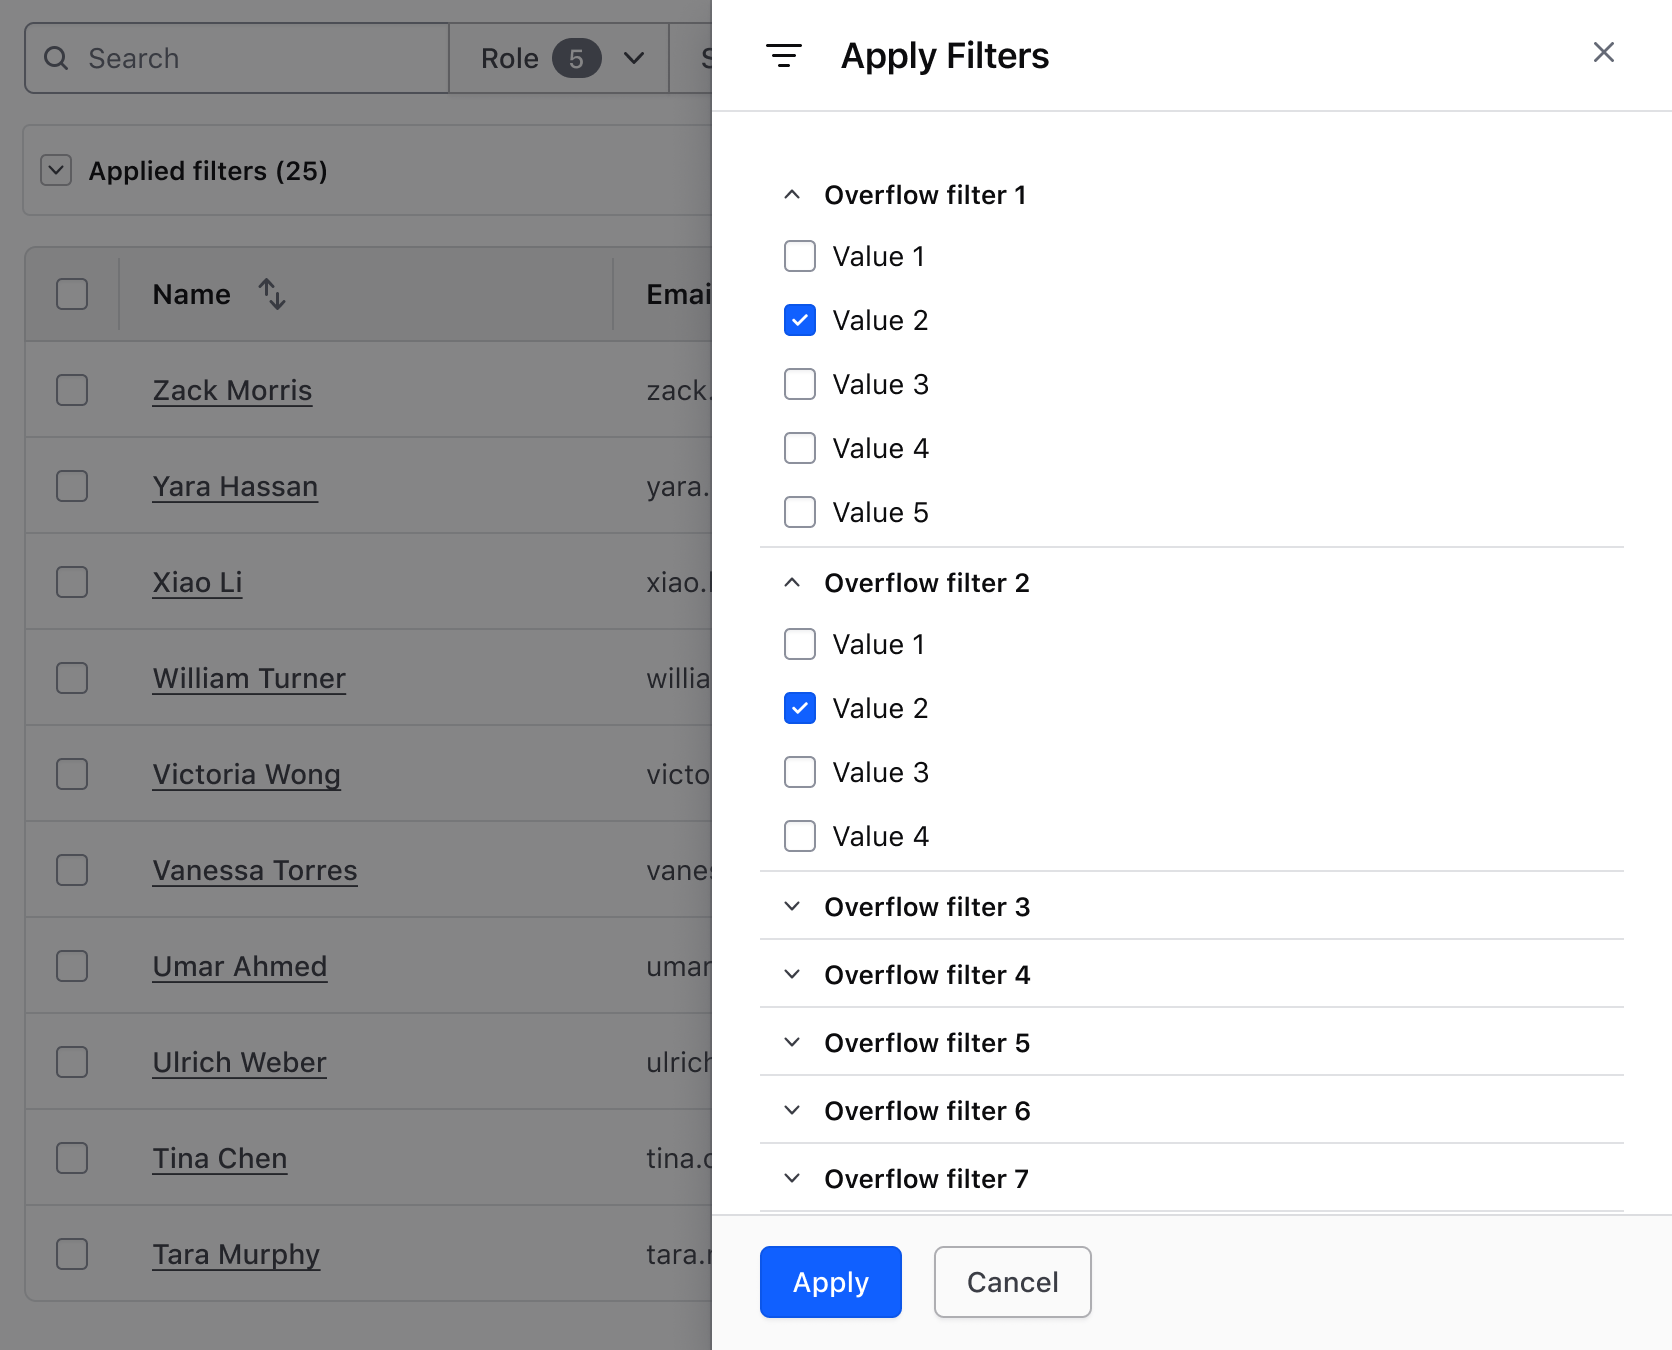
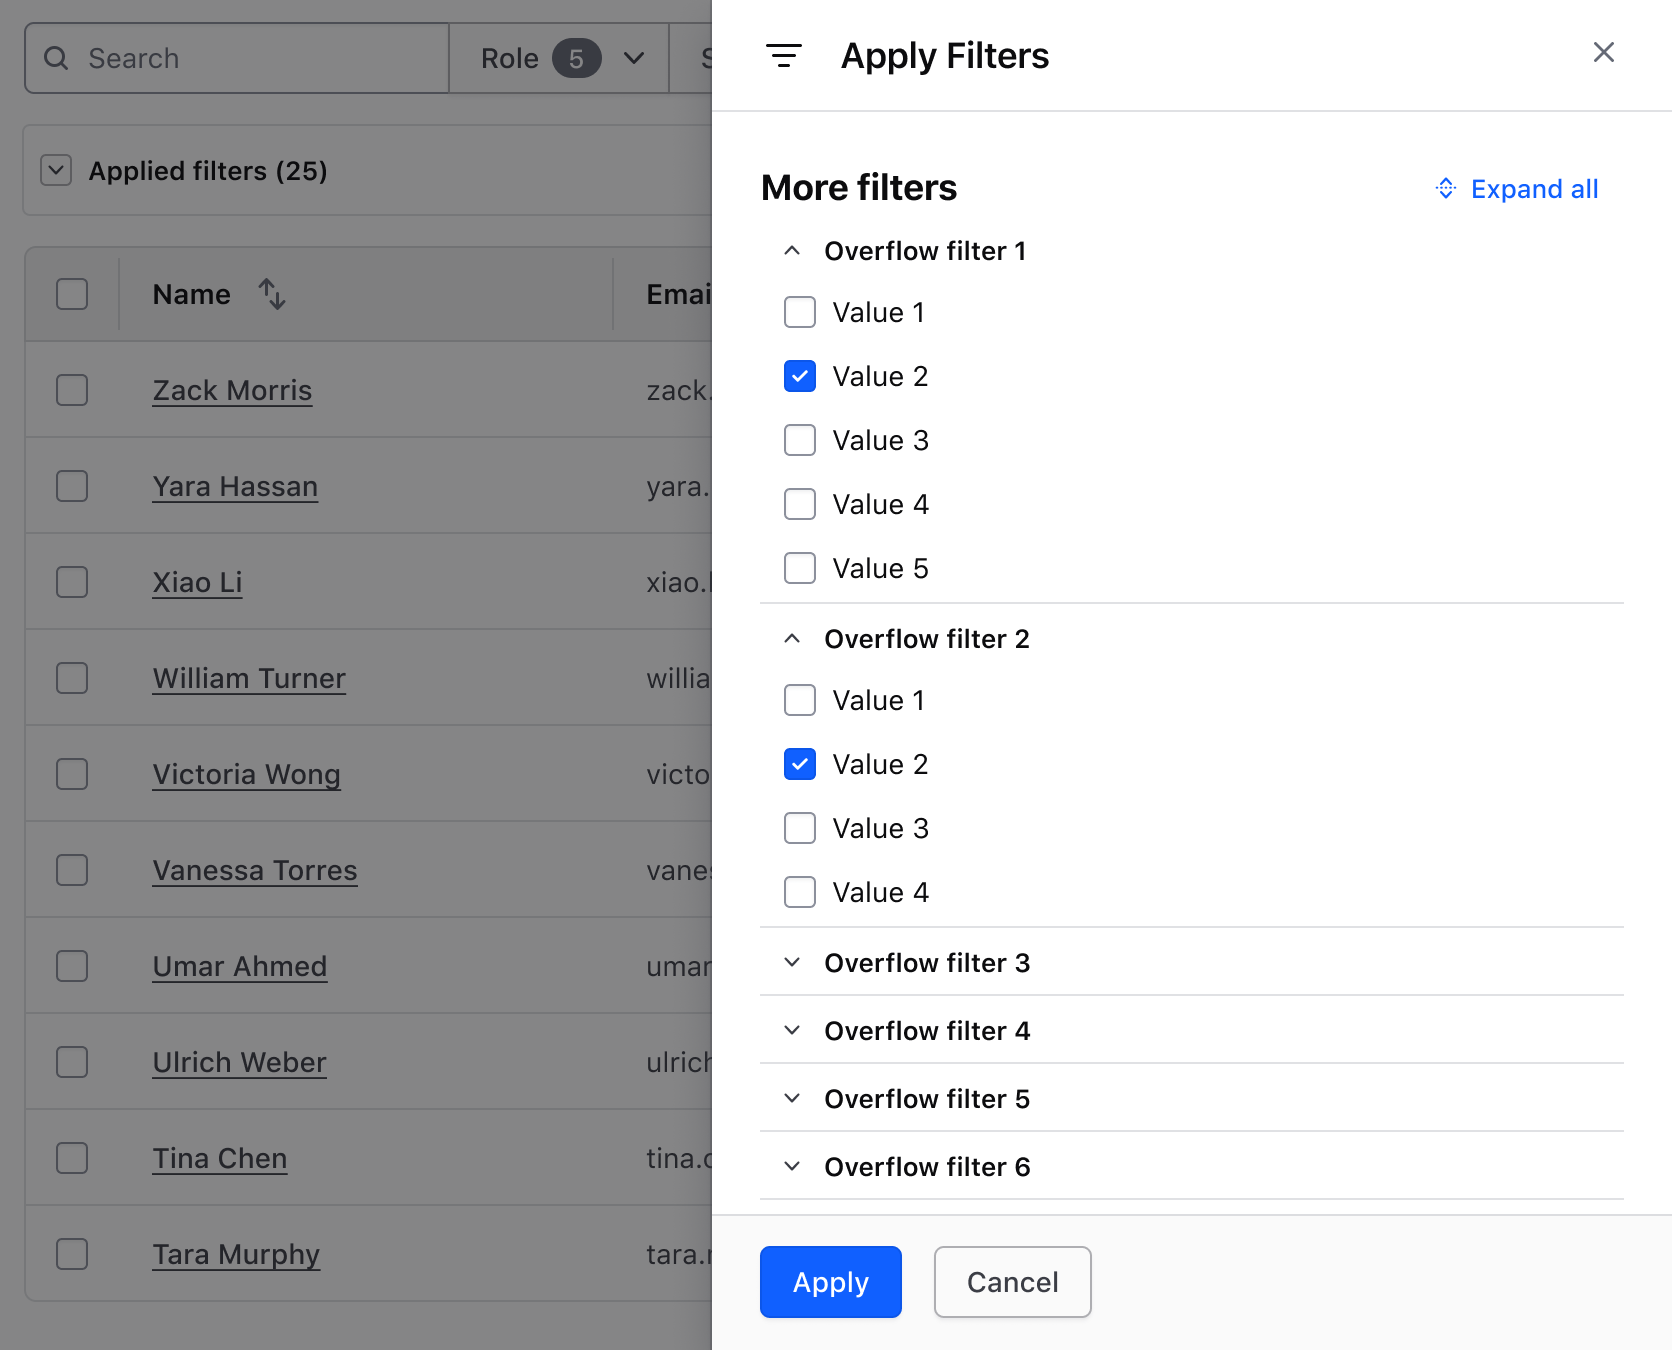
Added expand/collapse to flyout in image and code example

Changed region(s): [[0.4665, 0.3733, 0.622, 0.9022], [0.4354, 0.1244, 0.622, 0.3422], [0.8708, 0.1244, 0.9641, 0.1556]]

diff --git a/website/docs/patterns/filter-patterns/index.js b/website/docs/patterns/filter-patterns/index.js
@@ -9,6 +9,8 @@ import { action } from '@ember/object';
 
 export default class Index extends Component {
   @tracked filterFlyoutActive = false;
+  @tracked state = 'close';
+
   // Mock API
   @tracked demoFilters = [
     {
@@ -766,5 +768,10 @@ export default class Index extends Component {
   @action
   deactivateFlyout(flyout) {
     this[flyout] = false;
+  }
+
+  @action
+  toggleState() {
+    this.state = this.state === 'open' ? 'close' : 'open';
   }
 }

diff --git a/website/app/styles/pages/patterns/filter-patterns.scss b/website/app/styles/pages/patterns/filter-patterns.scss
@@ -31,3 +31,10 @@
   gap: 12px 8px;
   align-items: center;
 }
+
+.doc-filter-patterns-flyout-label {
+  display: flex;
+  flex-direction: row;
+  align-items: center;
+  justify-content: space-between;
+}

diff --git a/website/docs/patterns/filter-patterns/partials/guidelines/guidelines.md b/website/docs/patterns/filter-patterns/partials/guidelines/guidelines.md
@@ -283,7 +283,26 @@ This contextual example demonstrates a comprehensive yet simple method of compos
     >
       <F.Header @icon="filter">More filters</F.Header>
       <F.Body>
-        <Hds::Accordion @type="flush" @size="small" as |A|>
+        <div class="doc-filter-patterns-flyout-label">
+          <Hds::Text::Display
+            @size="300"
+            @color="strong"
+          >Diet</Hds::Text::Display>
+          <Hds::Button
+            @text={{if (eq this.state "open") "Collapse all" "Expand all"}}
+            @icon={{if (eq this.state "open") "unfold-close" "unfold-open"}}
+            @iconPosition="leading"
+            @size="small"
+            @color="tertiary"
+            {{on "click" this.toggleState}}
+          />
+        </div>
+        <Hds::Accordion
+          @forceState={{this.state}}
+          @type="flush"
+          @size="small"
+          as |A|
+        >
           {{#each this.model.demoOverflowFilters as |overflowFilter|}}
             <A.Item>
               <:toggle>{{overflowFilter.label}}</:toggle>
@@ -352,7 +371,6 @@ This contextual example demonstrates a comprehensive yet simple method of compos
   </Hds::Accordion>
 
 </div>
-
 ```
 
 ### More complex filtering scenarios
